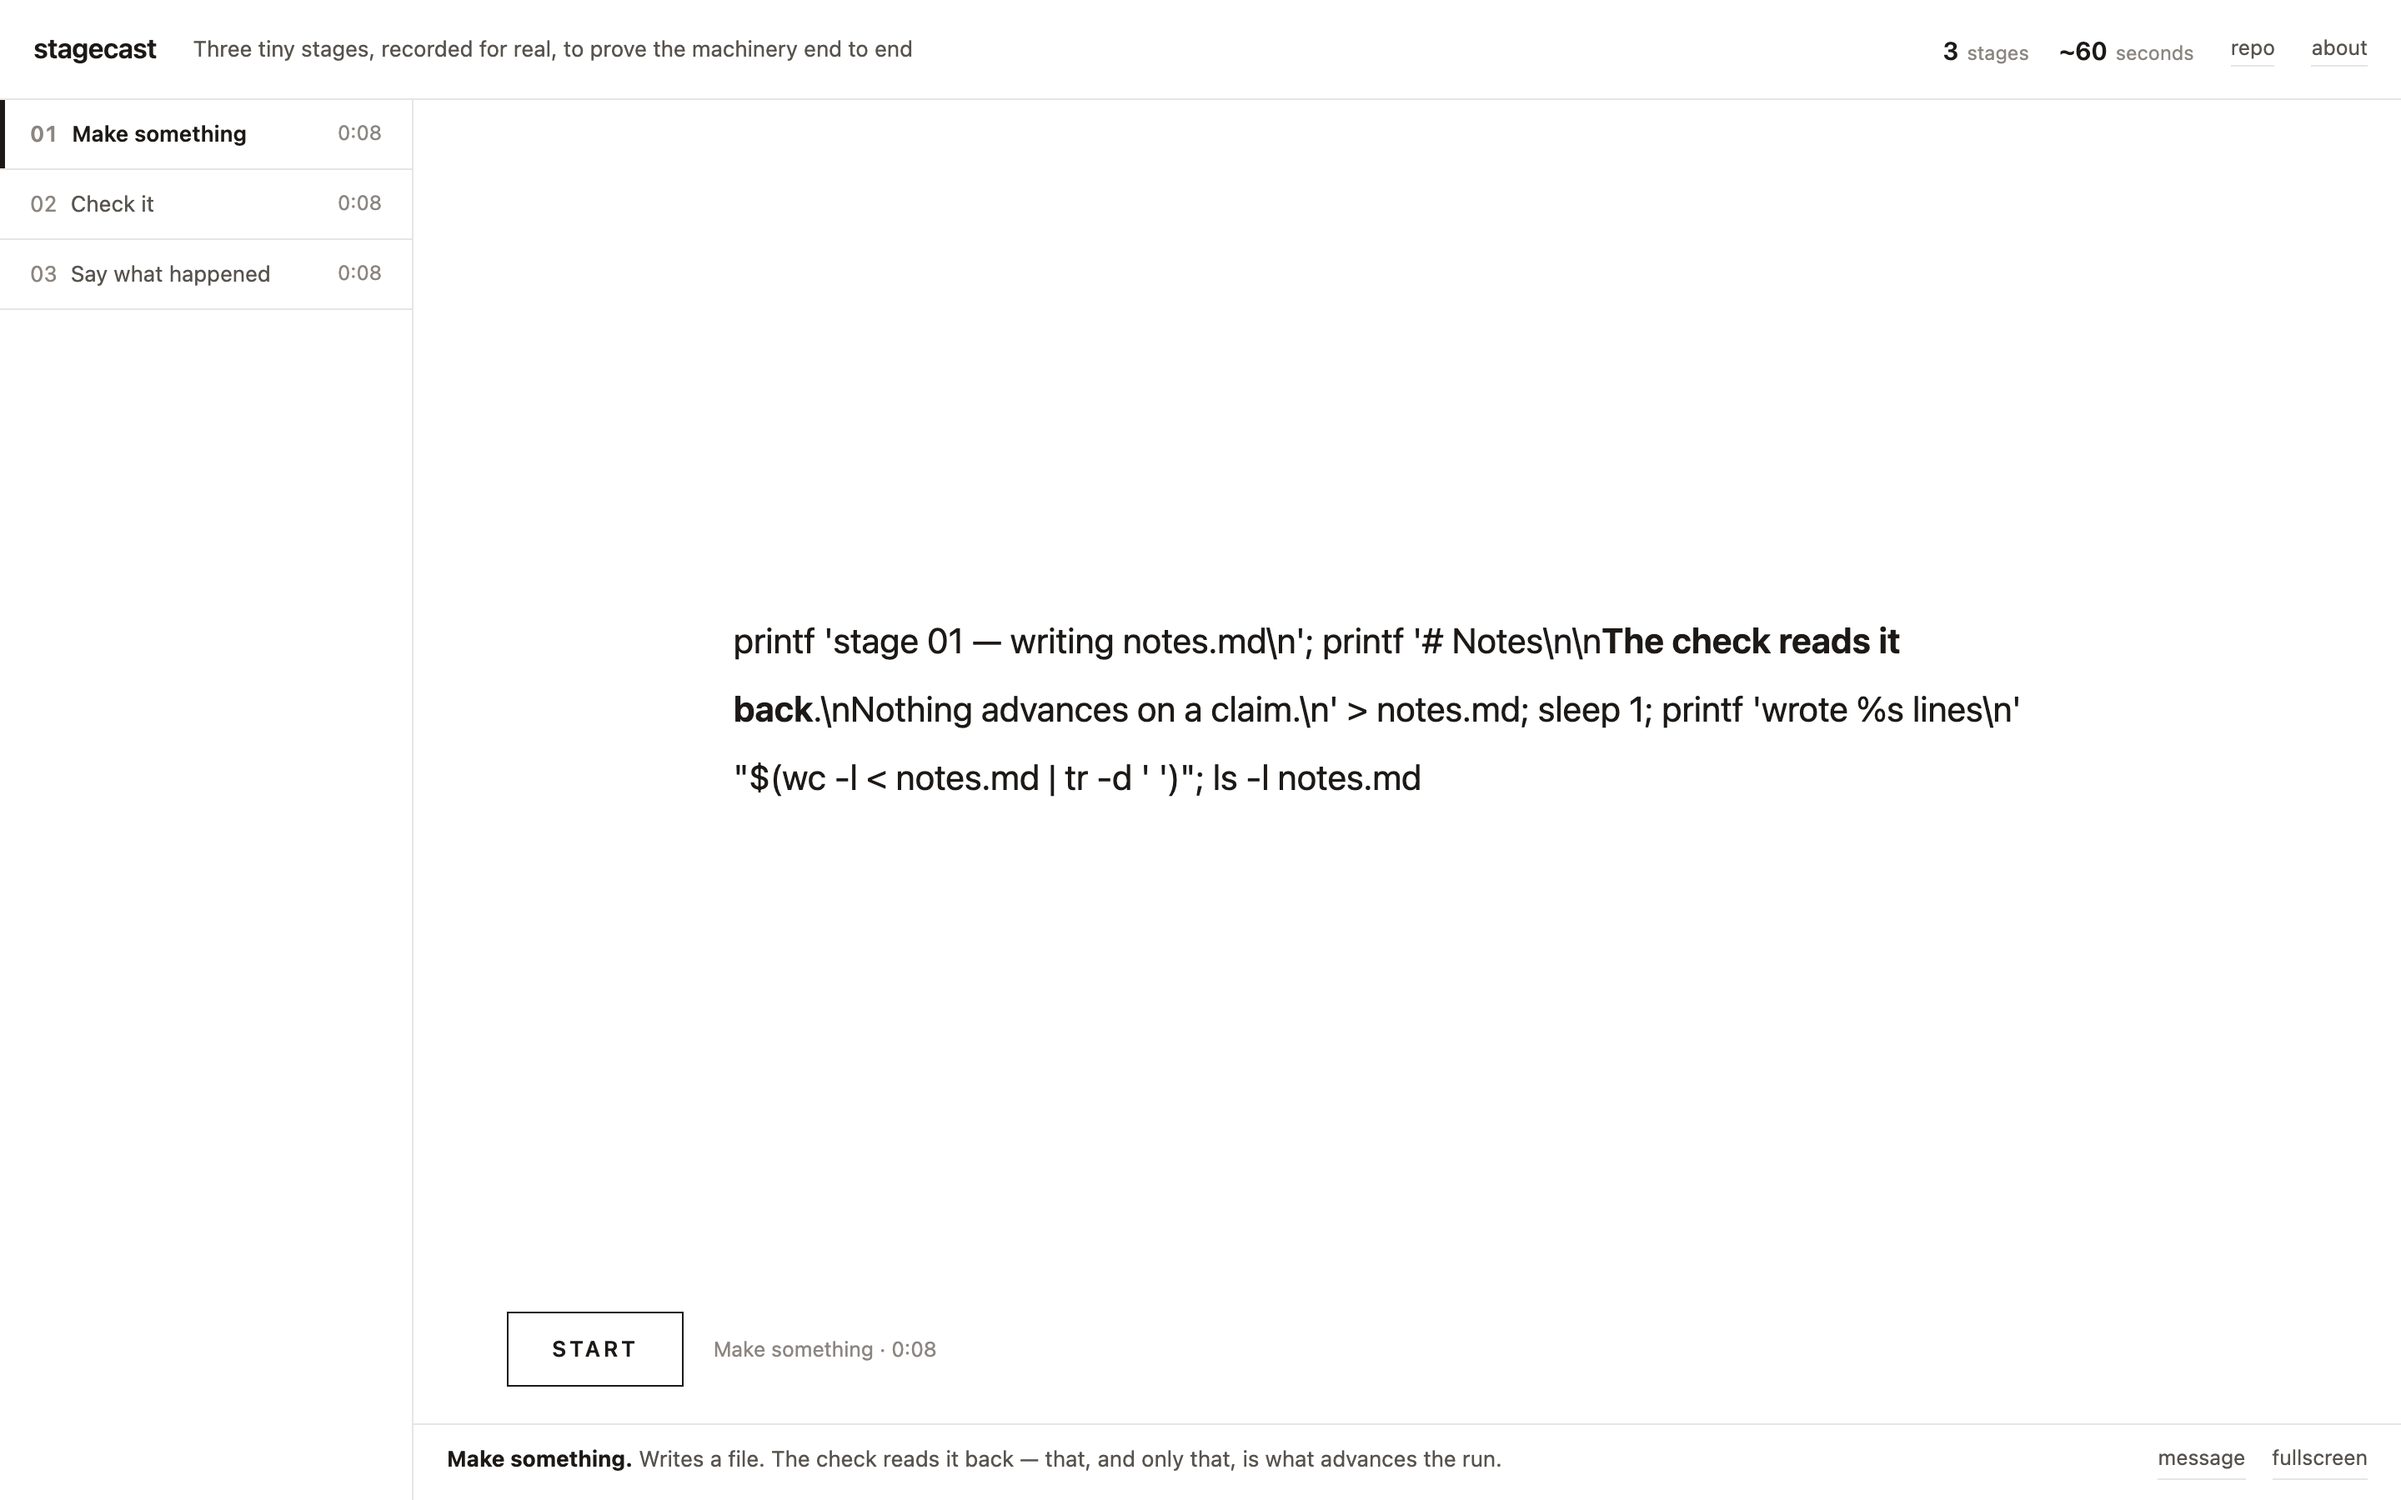
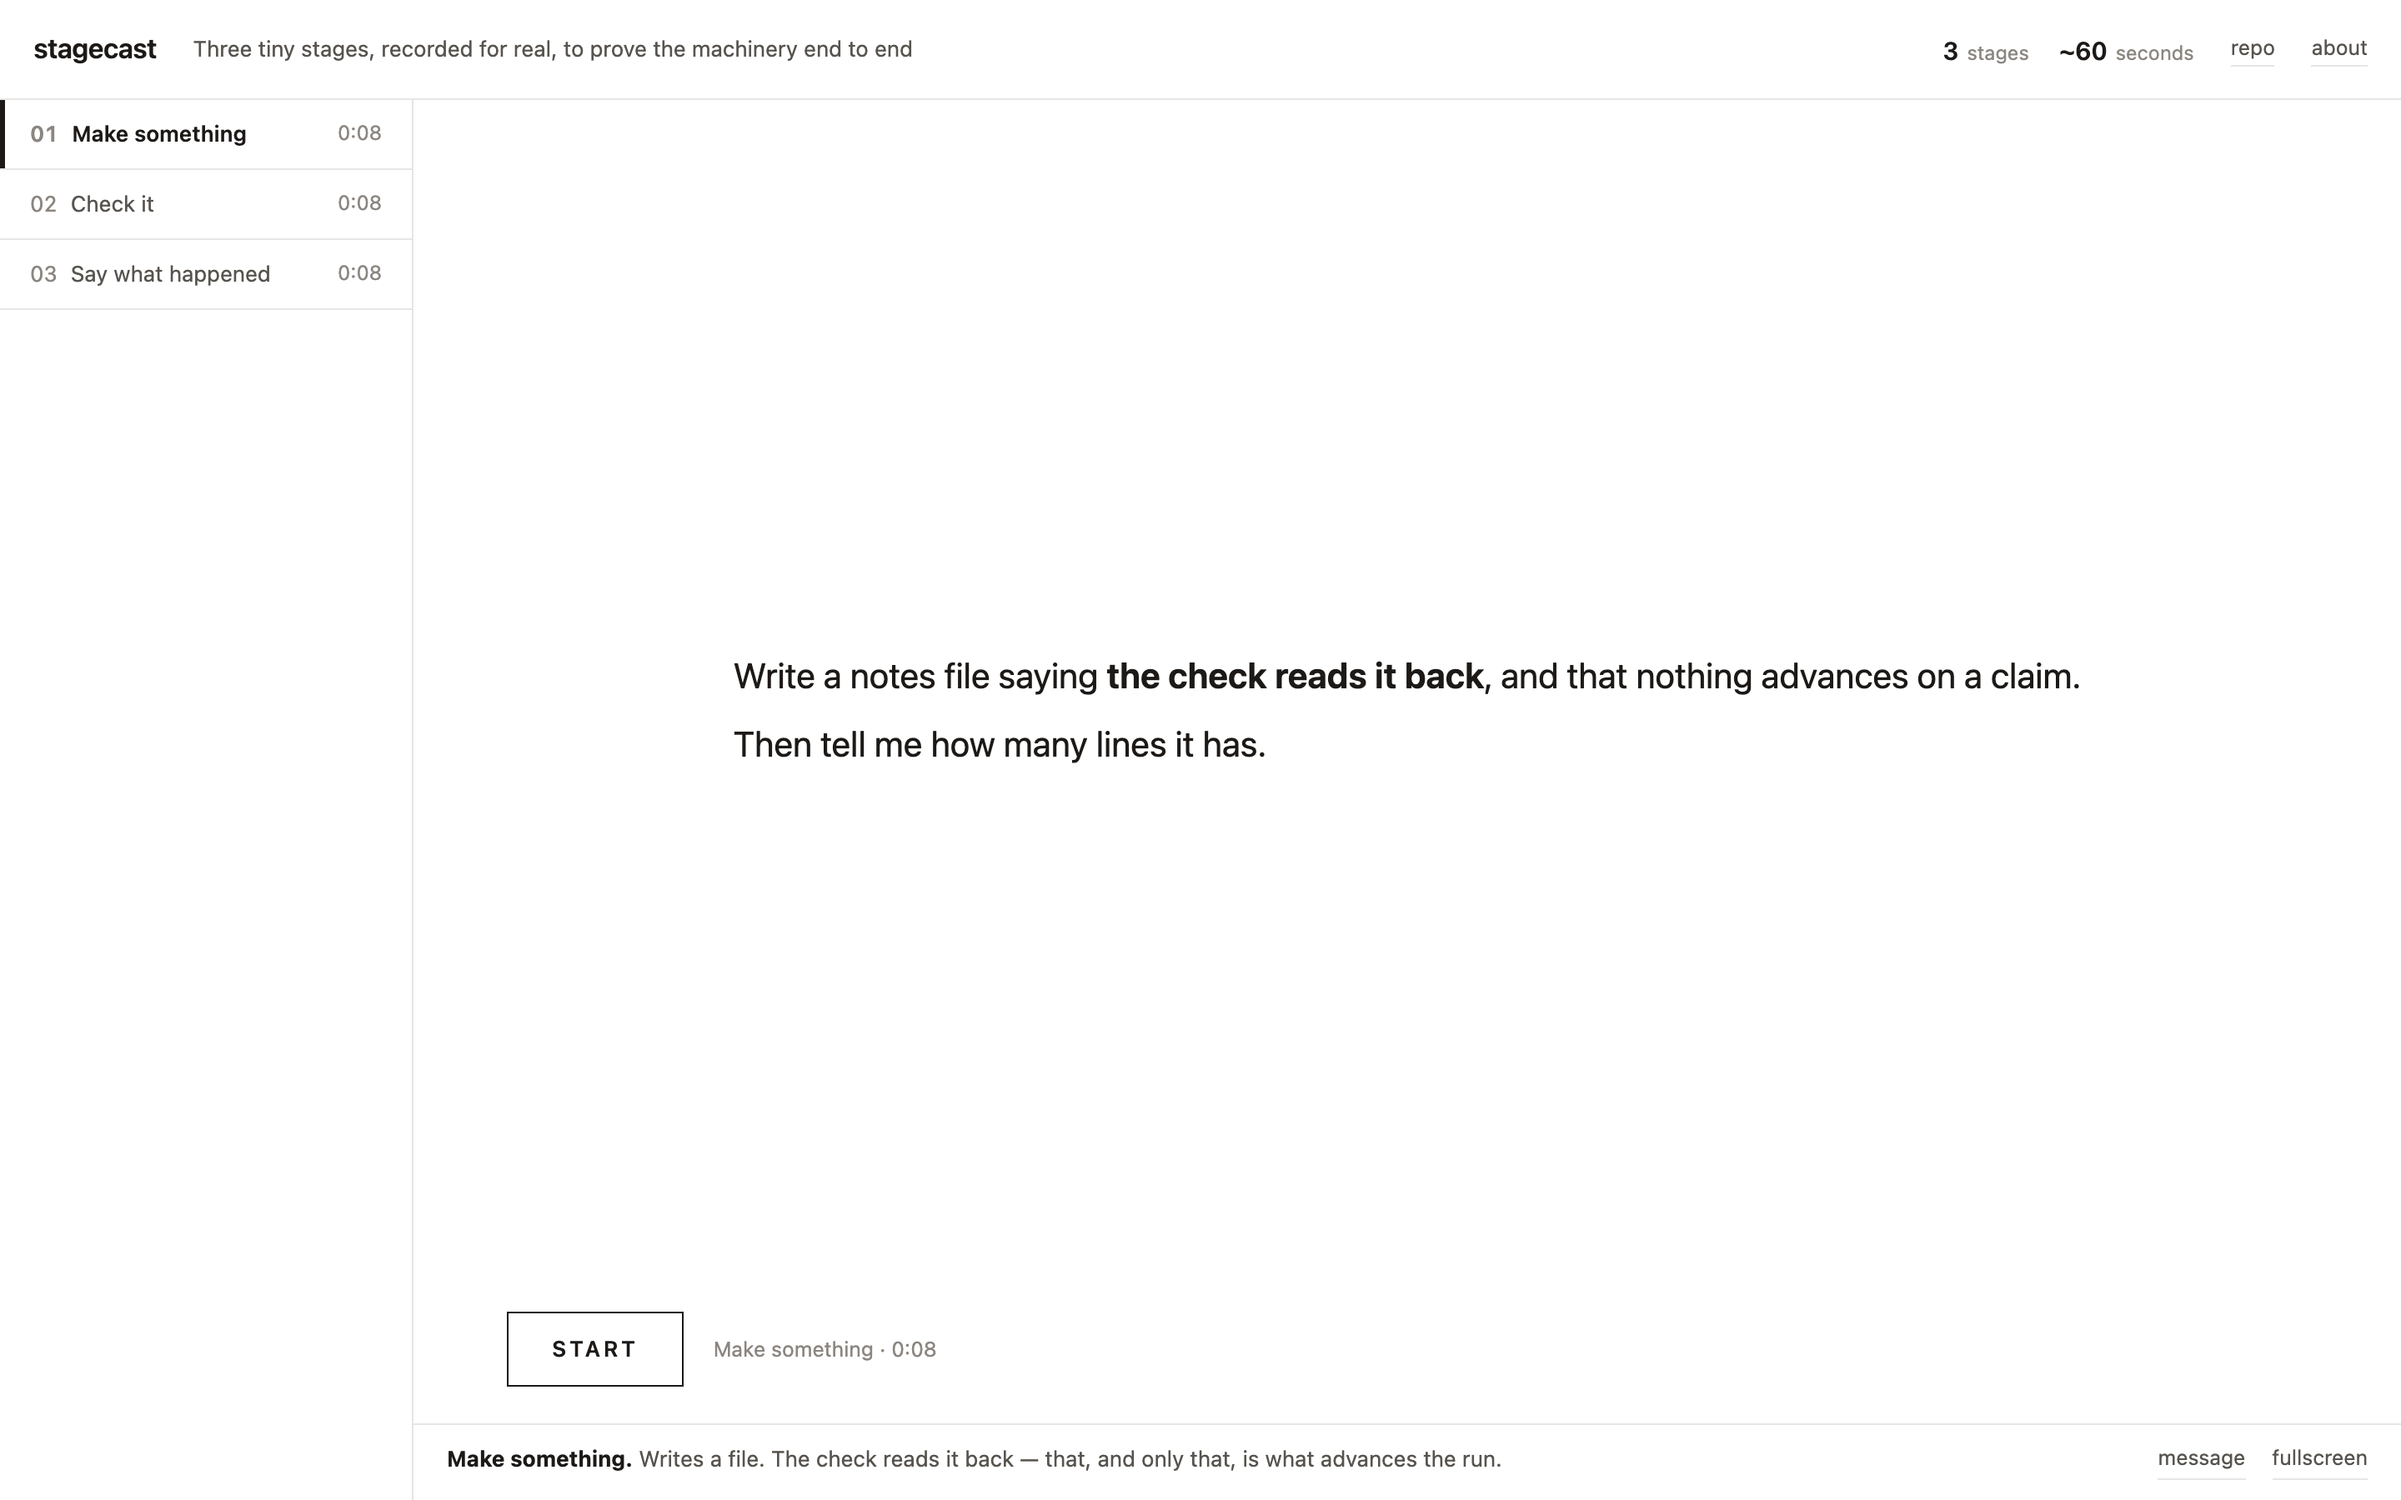
feat: scaffold a run from a directory of prompts, and a demo that reads like one
`stagecast init` turns a prompts/ directory into a config: stage ids and names
off the filenames, every other field a TODO. It will not write `verify`. A check
inferred from a filename would pass for the wrong reason, and a stage advancing
on the wrong reason is the one failure this framework exists to prevent — so
`record` refuses while any check is still a TODO, and names the stages.

The demo's chapter briefs showed a shell one-liner, because its target was bash
and the message you send a shell is a command. Truthful, but it misrepresented
the product on the page people see first: that panel is built for prose — 21px
over 62 characters, keywords bold, meant to be read standing still.

It now drives demo/worker.sh, which reads one instruction, matches a keyword and
runs one fixed step. There is no model behind it and no API key needed; it does
not imitate an agent's judgement and nothing it prints is dressed up to look
like thinking. What the demo proves is the machinery around the target, which is
the same whether that target is this or Claude Code.

Also: grep -c prints 0 and exits 1 when it matches nothing, so `|| echo 0`
appended a second zero and the guard's own test errored while still passing.

Changed region(s): [[0.3125, 0.4044, 0.875, 0.5289]]

diff --git a/tools/init_project.py b/tools/init_project.py
@@ -1,0 +1,81 @@
+#!/usr/bin/env python3
+"""Scaffold a stagecast.toml from a directory of prompts.
+
+The point of the framework is that a stage advances when its check passes and at
+no other time, so the one field this cannot write for you is `verify`. It is
+left as TODO and `record` refuses to start while any remain: a check guessed
+from a filename would pass for the wrong reason, which is worse than none.
+"""
+import re, sys
+from pathlib import Path
+
+SKEL = '''# Written by `stagecast init`. Fill in every TODO before recording.
+
+[project]
+name    = "{name}"
+title   = "TODO: one line under the name"
+blurb   = "TODO: what this run was, in a sentence"
+workdir = "."          # where the stages' checks are run
+repo    = "TODO: https://github.com/you/your-repo"
+
+facts = [
+  {{ value = "{n}", label = "stages" }},
+]
+
+[recording]
+cols       = 118       # 16:9 once the cell aspect is measured
+rows       = 28
+agent      = "claude"
+idle_limit = 2
+
+[site]
+emphasise = []         # phrases to bold in the chapter briefs
+about = """
+<p>TODO: a paragraph for the about panel.</p>
+"""
+
+{stages}'''
+
+STAGE = '''[[stage]]
+id     = "{id}"
+name   = "{name}"
+prompt = "{prompt}"
+stall  = "30m"
+verify = "TODO: a command that exits 0 only when this stage is really done"
+note   = "TODO: one line under the player"
+'''
+
+
+def main() -> int:
+    src = Path(sys.argv[1] if len(sys.argv) > 1 else "prompts")
+    out = Path(sys.argv[2] if len(sys.argv) > 2 else "stagecast.toml")
+    if not src.is_dir():
+        print(f"  no such directory: {src}", file=sys.stderr)
+        return 2
+    if out.exists():
+        print(f"  {out} exists — move it aside first", file=sys.stderr)
+        return 2
+
+    files = sorted(p for p in src.iterdir()
+                   if p.is_file() and p.suffix in {".md", ".txt", ""} and not p.name.startswith("."))
+    if not files:
+        print(f"  no prompt files in {src}/", file=sys.stderr)
+        return 2
+
+    stages = []
+    for i, f in enumerate(files, 1):
+        m = re.match(r"(\d+)[-_. ]*(.*)", f.stem)
+        sid = m.group(1) if m else f"{i:02d}"
+        rest = (m.group(2) if m else f.stem).replace("-", " ").replace("_", " ").strip()
+        stages.append(STAGE.format(id=sid, name=(rest.capitalize() or f"Stage {sid}"),
+                                   prompt=f"{src.as_posix()}/{f.name}"))
+
+    out.write_text(SKEL.format(name=Path.cwd().name, n=len(files),
+                               stages="\n".join(stages)))
+    print(f"  {out} — {len(files)} stage(s) from {src}/")
+    print(f"  fill in every TODO; `record` will refuse while a verify is one")
+    return 0
+
+
+if __name__ == "__main__":
+    sys.exit(main())

diff --git a/README.md b/README.md
@@ -48,12 +48,20 @@ output already on disk. See [docs/LESSONS.md](docs/LESSONS.md).
 brew install asciinema tmux        # and agg, if you want GIFs
 uv tool install playwright         # for `stagecast verify`
 
-cp -r example/ my-run && cd my-run
-$EDITOR stagecast.toml             # chapters, prompts, checks
+mkdir my-run && cd my-run
+mkdir prompts && $EDITOR prompts/01-….md   # one file per chapter, in order
+stagecast init                     # scaffolds stagecast.toml from them
+$EDITOR stagecast.toml             # fill in the checks — see below
 stagecast record                   # one recorded session per stage
 stagecast build                    # restore, trim, redact, render
 stagecast verify https://…         # drive the published page in a browser
 ```
+
+`init` reads the stage id and name off each filename and writes everything but
+one field. `verify` is left as `TODO`, and `record` refuses to start while any
+remain — a check inferred from a filename would pass for the wrong reason, which
+is worse than not having one. That field is the whole discipline, so it is the
+one you write yourself.
 
 `build` writes `site/` — a single page, its casts, and the prompts as data.
 Host it anywhere static.

diff --git a/docs/LESSONS.md b/docs/LESSONS.md
@@ -390,3 +390,14 @@ was written to catch the bug rather than in the bug:
 Without the fixture, a lint that matches nothing and a lint that found nothing
 are the same output.
 
+### Scaffold everything except the check
+
+`stagecast init` writes a config from a directory of prompts: stage ids and
+names off the filenames, every other field a `TODO`. It deliberately cannot
+write `verify`. A check guessed from a filename would pass for the wrong reason,
+and a stage that advances on the wrong reason is the single failure this whole
+framework exists to prevent.
+
+**Rule.** `record` refuses while any check is still a TODO, and names the stages.
+Scaffolding that quietly produced a plausible check would be worse than none.
+
